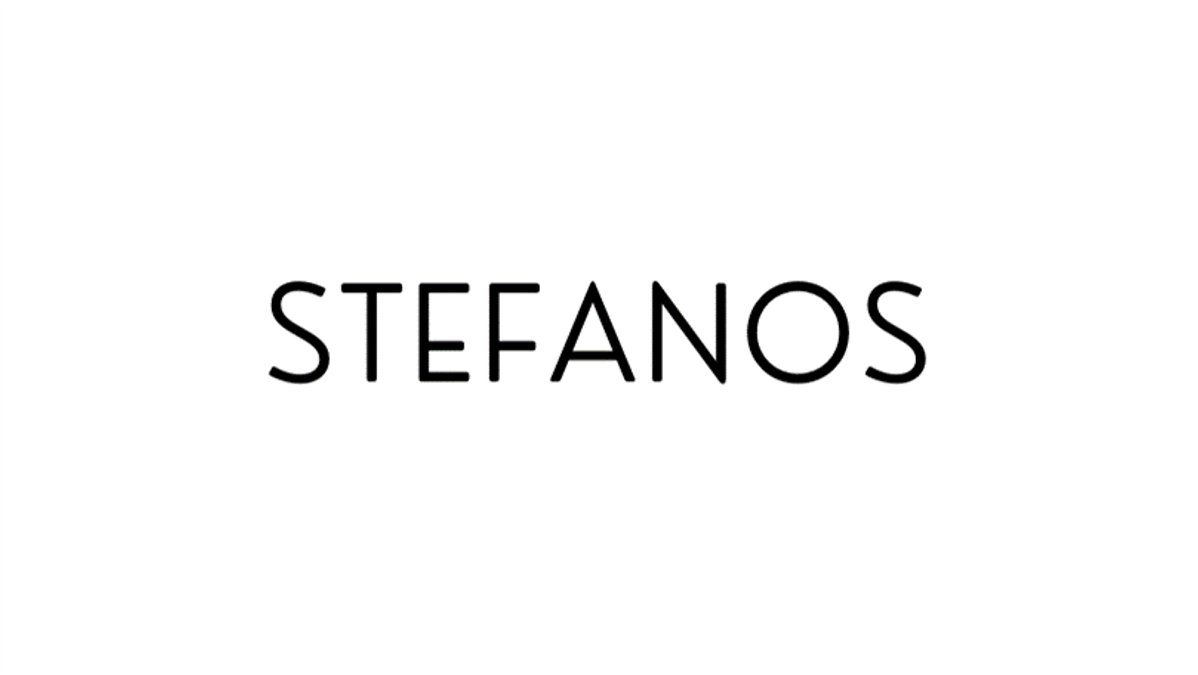
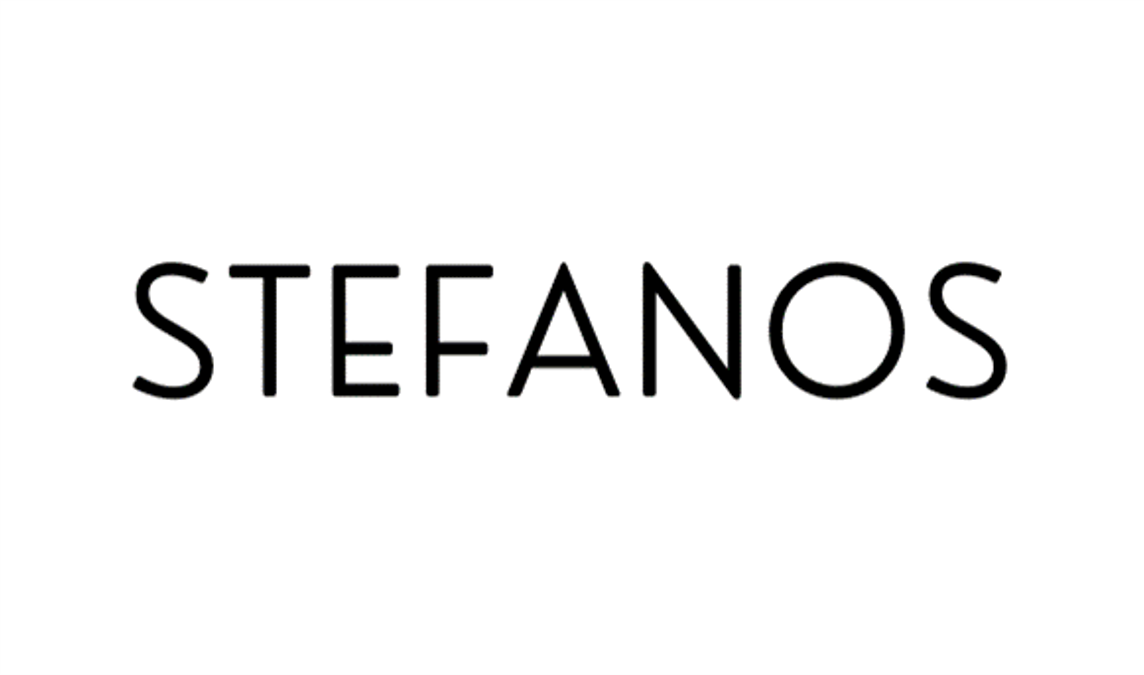
og image for twitter

Changed region(s): [[0.0918, 0.3733, 0.8872, 0.5911]]

diff --git a/src/components/Layout.tsx b/src/components/Layout.tsx
@@ -29,9 +29,14 @@ const Layout = ({ children }: LayoutProps) => {
           />
           <meta
             property="og:image"
-            content="http://localhost:3000/assets/images/brand/ogImageF.png"
+            content="https://leather-preview.vercel.app/assets/images/brand/ogImageF.png"
           />
           <meta property="og:image:type" content="png" />
+          <meta
+            name="twitter:image"
+            content="https://leather-preview.vercel.app/assets/images/brand/ogImageT.png"
+          />
+          <meta name="twitter:image:type" content="png" />
         </Head>
         <Nav />
         <main>{children}</main>
